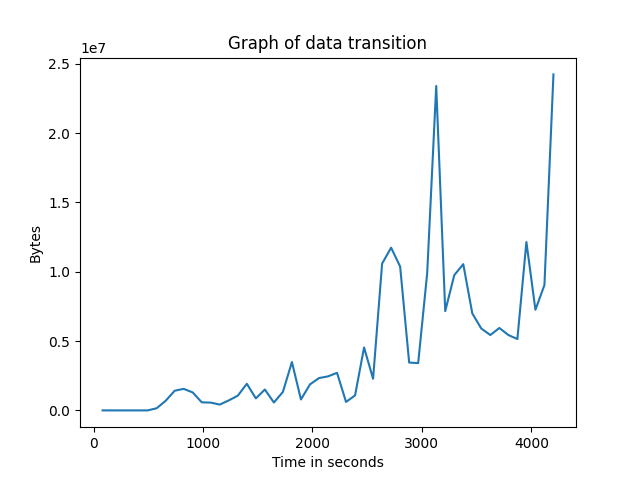
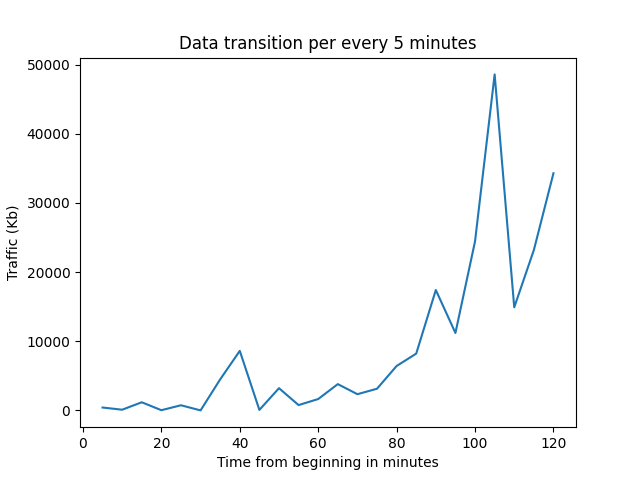
Add files via upload

diff --git a/lab2/lab2_graph.py b/lab2/lab2_graph.py
@@ -12,22 +12,22 @@ def main():
     with open(args[0], 'r', newline='') as infile:
         file_content = infile.read().split('\n')
         del file_content[-5:]  # removing last descriptive lines
-        first_row = file_content[1].split()
+        file_content.pop(0)  # removing first description line
+        # ordered_tmp = sorted(tmp_dict.items(), key=lambda x: x[0])
+        tmp_list = [line.split() for line in file_content]
+        file_content = sorted(tmp_list, key=lambda x: datetime.datetime.strptime(x[0]+" "+x[1], "%Y-%m-%d %H:%M:%S.%f"))
+        first_row = file_content[0]
         first_datetime = datetime.datetime.strptime(first_row[0]+" "+first_row[1], "%Y-%m-%d %H:%M:%S.%f")
         for last_row in file_content:
             pass
-        last_row = last_row.split()
         last_datetime = datetime.datetime.strptime(last_row[0]+" "+last_row[1], "%Y-%m-%d %H:%M:%S.%f")
         # first_datetime and last_datetime are class datetime.datetime
         deltatime = (last_datetime-first_datetime).total_seconds()
-        count = datetime.timedelta(seconds=deltatime/50)
+        count = datetime.timedelta(minutes=5)
         bytes = 0
-        x_time = []
-        y_bytes = []
-        for index, row in enumerate(file_content):
-            if index == 0:  # first description line
-                continue
-            row = row.split()
+        x_time = []  # seconds since first datetime
+        y_bytes = []  # traffic intensity during timedelta
+        for row in file_content:
             row_datetime = datetime.datetime.strptime(row[0]+" "+row[1], "%Y-%m-%d %H:%M:%S.%f")
             if row_datetime < count+first_datetime:
                 if row[12] == "M":
@@ -35,21 +35,20 @@ def main():
                 else:
                     bytes += float(row[11])
             else:
-                x_time.append(count.total_seconds())
-                count += datetime.timedelta(seconds=deltatime/50)
-                y_bytes.append(bytes)
+                x_time.append(count.total_seconds()/60)
+                count += datetime.timedelta(minutes=5)
+                y_bytes.append(bytes/1024)
                 bytes = 0
-                if row_datetime < count + first_datetime:
-                    if row[12] == "M":
-                        bytes += float(row[11]) * 1024 * 1024
-                    else:
-                        bytes += float(row[11])
-        x_time.append(count.total_seconds())
-        y_bytes.append(bytes)
-        plt.xlabel("Time in seconds")
-        plt.ylabel("Bytes")
-        plt.title("Graph of data transition")
-        plt.plot(x_time, y_bytes)
+                if row[12] == "M":
+                    bytes += float(row[11]) * 1024 * 1024
+                else:
+                    bytes += float(row[11])
+        x_time.append(count.total_seconds()/60)
+        y_bytes.append(bytes/1024)
+        plt.xlabel("Time from beginning in minutes")
+        plt.ylabel("Traffic (Kb)")
+        plt.title("Data transition per every 5 minutes")
+        plt.plot(x_time, y_bytes)  # build graph
         plt.savefig("Graph.png")
 
 
